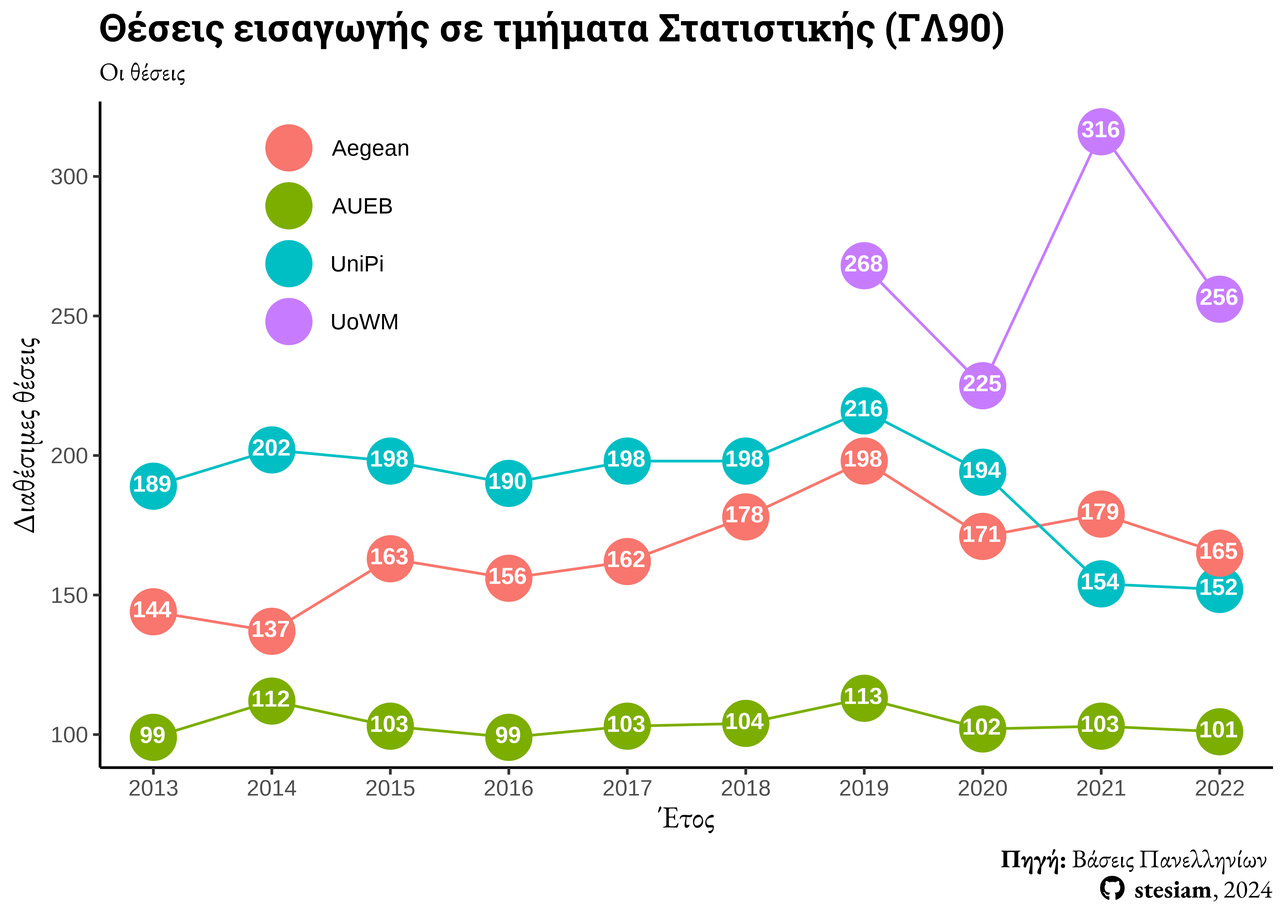
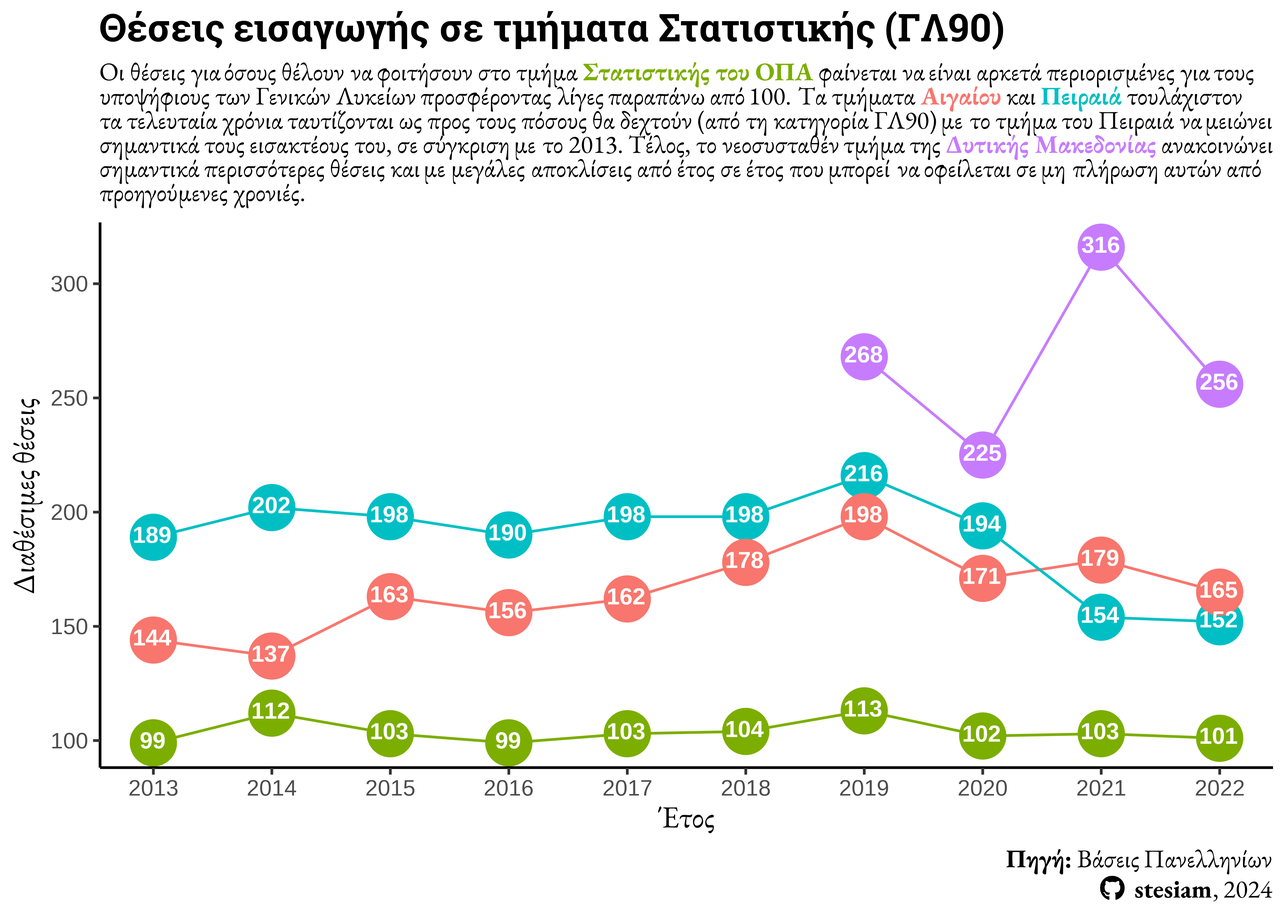
Edit article Statistics Studies in Greece and project announcement in gallery

diff --git a/docs/greek-posts/2023-06-20-Studies-in-Statistics-Greek/index.html b/docs/greek-posts/2023-06-20-Studies-in-Statistics-Greek/index.html
@@ -268,7 +268,7 @@ pre > code.sourceCode > span > a:first-child::before { text-decoration: underlin
 <div class="cell" height="5">
 <div class="sourceCode" id="cb2"><pre class="downlit sourceCode r code-with-copy"><code class="sourceCode R"><span><span class="va">title_text</span> <span class="op">=</span> <span class="fu"><a href="https://glue.tidyverse.org/reference/glue.html">glue</a></span><span class="op">(</span><span class="st">"&lt;b&gt;Βάσεις εισαγωγής σε τμήματα Στατιστικής&lt;/b&gt;"</span><span class="op">)</span></span>
 <span><span class="va">subtitle_text</span> <span class="op">=</span> <span class="fu"><a href="https://glue.tidyverse.org/reference/glue.html">glue</a></span><span class="op">(</span><span class="st">"Η βάση εισαγωγής είναι ο μικρότερος αριθμός μορίων - βαθμολογίας που πρέπει να συγκεντρώσει κάποιος &lt;br&gt; προκειμένου να εισαχθεί στη συγκεκριμένη σχολή. Διαχρονικά, οι σχολές με τη μεγαλύτερη βάση είναι του &lt;br&gt; &lt;b&gt;Οικονομικού Πανεπιστημίου Αθηνών&lt;/b&gt; και του &lt;b&gt;Πανεπιστημίου Πειραιά&lt;/b&gt;. Τέλος, παρατηρούμε ότι όλες &lt;br&gt; οι  σχολές Στατιστικής έχουν σχετικά χαμηλή βάση εισαγωγής."</span><span class="op">)</span></span>
-<span><span class="va">caption_text</span> <span class="op">=</span> <span class="fu"><a href="https://glue.tidyverse.org/reference/glue.html">glue</a></span><span class="op">(</span><span class="st">"&lt;b&gt; Πηγή:&lt;/b&gt; Οδηγοί σπουδών (2022) τμημάτων Στατιστικής &lt;br&gt;&lt;span style='font-family:fb;'  &gt;&amp;#xf09b;&lt;/span&gt; &lt;b&gt;stesiam&lt;/b&gt;, 2024"</span><span class="op">)</span></span>
+<span><span class="va">caption_text</span> <span class="op">=</span> <span class="fu"><a href="https://glue.tidyverse.org/reference/glue.html">glue</a></span><span class="op">(</span><span class="st">"&lt;b&gt;Πηγή:&lt;/b&gt;Βάσεις Πανελληνίων&lt;br&gt;&lt;span style='font-family:fb;'  &gt;&amp;#xf09b;&lt;/span&gt; &lt;b&gt;stesiam&lt;/b&gt;, 2024"</span><span class="op">)</span></span>
 <span></span>
 <span><span class="fu">ggplot2</span><span class="fu">::</span><span class="fu"><a href="https://ggplot2.tidyverse.org/reference/ggplot.html">ggplot</a></span><span class="op">(</span>data <span class="op">=</span> <span class="va">tmimata_statistikis</span>, <span class="fu"><a href="https://ggplot2.tidyverse.org/reference/aes.html">aes</a></span><span class="op">(</span>x <span class="op">=</span> <span class="va">Year</span>, y <span class="op">=</span> <span class="va">Vasi</span>, </span>
 <span>                                                color<span class="op">=</span> <span class="va">University</span>, </span>
@@ -277,7 +277,7 @@ pre > code.sourceCode > span > a:first-child::before { text-decoration: underlin
 <span>  <span class="fu"><a href="https://ggplot2.tidyverse.org/reference/geom_point.html">geom_point</a></span><span class="op">(</span>data <span class="op">=</span> <span class="va">tmimata_statistikis</span> <span class="op">|&gt;</span> <span class="fu">dplyr</span><span class="fu">::</span><span class="fu"><a href="https://dplyr.tidyverse.org/reference/filter.html">filter</a></span><span class="op">(</span><span class="va">Year</span> <span class="op">==</span> <span class="fl">2022</span><span class="op">)</span>,</span>
 <span>             size <span class="op">=</span> <span class="fl">9</span><span class="op">)</span> <span class="op">+</span></span>
 <span>  <span class="fu"><a href="https://allancameron.github.io/geomtextpath/reference/geom_textpath.html">geom_textline</a></span><span class="op">(</span>size <span class="op">=</span> <span class="fl">4.5</span>, vjust <span class="op">=</span> <span class="op">-</span><span class="fl">0.1</span>,</span>
-<span>                linewidth <span class="op">=</span> <span class="fl">1.5</span>, fontface <span class="op">=</span> <span class="st">"bold"</span><span class="op">)</span> <span class="op">+</span></span>
+<span>                linewidth <span class="op">=</span> <span class="fl">1.5</span>, fontface <span class="op">=</span> <span class="st">"bold"</span>, hjust <span class="op">=</span> <span class="fl">0.5</span><span class="op">)</span> <span class="op">+</span></span>
 <span>  <span class="fu"><a href="https://ggplot2.tidyverse.org/reference/geom_text.html">geom_text</a></span><span class="op">(</span>data <span class="op">=</span> <span class="va">tmimata_statistikis</span> <span class="op"><a href="https://magrittr.tidyverse.org/reference/pipe.html">%&gt;%</a></span> <span class="fu"><a href="https://dplyr.tidyverse.org/reference/group_by.html">group_by</a></span><span class="op">(</span><span class="va">University</span><span class="op">)</span> <span class="op"><a href="https://magrittr.tidyverse.org/reference/pipe.html">%&gt;%</a></span> <span class="fu"><a href="https://dplyr.tidyverse.org/reference/filter.html">filter</a></span><span class="op">(</span><span class="va">Year</span> <span class="op">==</span> <span class="fu"><a href="https://rdrr.io/r/base/Extremes.html">max</a></span><span class="op">(</span><span class="va">Year</span><span class="op">)</span><span class="op">)</span>, <span class="fu"><a href="https://ggplot2.tidyverse.org/reference/aes.html">aes</a></span><span class="op">(</span>x <span class="op">=</span> <span class="va">Year</span>, y <span class="op">=</span> <span class="va">Vasi</span>, label <span class="op">=</span> <span class="fu"><a href="https://rdrr.io/r/base/Round.html">round</a></span><span class="op">(</span><span class="va">Vasi</span><span class="op">/</span><span class="fl">1000</span>, digits <span class="op">=</span> <span class="fl">1</span><span class="op">)</span><span class="op">)</span>,</span>
 <span>                  fontface <span class="op">=</span> <span class="st">"bold"</span>, color <span class="op">=</span> <span class="st">"white"</span>, size <span class="op">=</span> <span class="fl">3.5</span><span class="op">)</span> <span class="op">+</span></span>
 <span>  <span class="fu"><a href="https://ggplot2.tidyverse.org/reference/scale_continuous.html">scale_x_continuous</a></span><span class="op">(</span><span class="st">"Έτος"</span>, breaks <span class="op">=</span> <span class="fl">2013</span><span class="op">:</span><span class="fl">2023</span><span class="op">)</span> <span class="op">+</span></span>
@@ -305,11 +305,12 @@ pre > code.sourceCode > span > a:first-child::before { text-decoration: underlin
 </div>
 </div>
 </section><section id="θέσεις" class="level2"><h2 class="anchored" data-anchor-id="θέσεις">Θέσεις</h2>
-<p>Κάθε χρόνο το Υπουργείο Παιδείας ανακοινώνει τις διαθέσιμες θέσεις για κάθε σχολή και για κάθε κατηγορία εξεταζόμενων. Σε αυτή την ανάλυση ασχολούμαι με τους υποψήφιους των Γενικών Λυκείων που αποτελούν και τη συντριπτική πλειοψηφία των συμμετεχόντων. Με μία πρώτη ματιά παρατηρώ μία αντιστροφή των αποτελεσμάτων σε σύγκριση με τη βάση εισαγωγής. Δηλαδή, στις σχολές με την σχετικά υψηλότερη βάση παρέχονται λιγότερες θέσεις.</p>
+<p>Κάθε χρόνο το Υπουργείο Παιδείας ανακοινώνει τις διαθέσιμες θέσεις για κάθε σχολή και για κάθε κατηγορία εξεταζόμενων. Σε αυτή την ανάλυση ασχολούμαι με τους υποψήφιους των Γενικών Λυκείων που αποτελούν και τη συντριπτική πλειοψηφία των συμμετεχόντων. Με μία πρώτη ματιά παρατηρώ μία αντιστροφή των αποτελεσμάτων σε σύγκριση με τη βάση εισαγωγής. Δηλαδή, στις σχολές με την σχετικά υψηλότερη βάση παρέχονται λιγότερες θέσεις, ενώ οι περισσότερες θέσεις διατίθενται στις σχολές χαμηλότερης βάσης.</p>
 <div class="cell" height="5">
 <div class="sourceCode" id="cb3"><pre class="downlit sourceCode r code-with-copy"><code class="sourceCode R"><span><span class="va">title_text</span> <span class="op">=</span> <span class="fu"><a href="https://glue.tidyverse.org/reference/glue.html">glue</a></span><span class="op">(</span><span class="st">"&lt;b&gt;Θέσεις εισαγωγής σε τμήματα Στατιστικής (ΓΛ90)&lt;/b&gt;"</span><span class="op">)</span></span>
-<span><span class="va">subtitle_text</span> <span class="op">=</span> <span class="fu"><a href="https://glue.tidyverse.org/reference/glue.html">glue</a></span><span class="op">(</span><span class="st">"Oι θέσεις "</span><span class="op">)</span></span>
-<span><span class="va">caption_text</span> <span class="op">=</span> <span class="fu"><a href="https://glue.tidyverse.org/reference/glue.html">glue</a></span><span class="op">(</span><span class="st">"&lt;b&gt; Πηγή:&lt;/b&gt; Βάσεις Πανελληνίων &lt;br&gt;&lt;span style='font-family:fb;'  &gt;&amp;#xf09b;&lt;/span&gt; &lt;b&gt;stesiam&lt;/b&gt;, 2024"</span><span class="op">)</span></span>
+<span><span class="va">subtitle_text</span> <span class="op">=</span> <span class="fu"><a href="https://glue.tidyverse.org/reference/glue.html">glue</a></span><span class="op">(</span><span class="st">"Oι θέσεις για όσους θέλουν να φοιτήσουν στο τμήμα **&lt;span style='color:#7cae00;'&gt;Στατιστικής του ΟΠΑ&lt;/span&gt;** φαίνεται να είναι αρκετά περιορισμένες για τους &lt;br&gt; υποψήφιους των Γενικών Λυκείων προσφέροντας λίγες παραπάνω από 100. Τα τμήματα **&lt;span style='color:#f8766d;'&gt;Αιγαίου&lt;/span&gt;** και **&lt;span style='color:#00bfc4;'&gt;Πειραιά&lt;/span&gt;** τουλάχιστον &lt;br&gt; τα τελευταία χρόνια ταυτίζονται ως προς τους πόσους θα δεχτούν (από τη κατηγορία ΓΛ90) με το τμήμα του Πειραιά να μειώνει &lt;br&gt; σημαντικά τους εισακτέους του, σε σύγκριση με το 2013. Τέλος, το νεοσυσταθέν τμήμα της **&lt;span style='color:#c77cff;'&gt;Δυτικής Μακεδονίας&lt;/span&gt;** ανακοινώνει &lt;br&gt;σημαντικά περισσότερες θέσεις και με μεγάλες αποκλίσεις από έτος σε έτος που μπορεί να οφείλεται σε μη πλήρωση αυτών από&lt;br&gt; προηγούμενες χρονιές."</span><span class="op">)</span></span>
+<span></span>
+<span><span class="va">caption_text</span> <span class="op">=</span> <span class="fu"><a href="https://glue.tidyverse.org/reference/glue.html">glue</a></span><span class="op">(</span><span class="st">"&lt;b&gt; Πηγή:&lt;/b&gt; Βάσεις Πανελληνίων&lt;br&gt;&lt;span style='font-family:fb;'  &gt;&amp;#xf09b;&lt;/span&gt; &lt;b&gt;stesiam&lt;/b&gt;, 2024"</span><span class="op">)</span></span>
 <span></span>
 <span><span class="fu">ggplot2</span><span class="fu">::</span><span class="fu"><a href="https://ggplot2.tidyverse.org/reference/ggplot.html">ggplot</a></span><span class="op">(</span>data <span class="op">=</span> <span class="va">tmimata_statistikis</span>, <span class="fu"><a href="https://ggplot2.tidyverse.org/reference/aes.html">aes</a></span><span class="op">(</span>x <span class="op">=</span> <span class="va">Year</span>, y <span class="op">=</span> <span class="va">Theseis</span>, color<span class="op">=</span> <span class="va">University</span><span class="op">)</span><span class="op">)</span> <span class="op">+</span></span>
 <span>  <span class="fu"><a href="https://ggplot2.tidyverse.org/reference/geom_path.html">geom_line</a></span><span class="op">(</span><span class="op">)</span> <span class="op">+</span></span>
@@ -332,8 +333,7 @@ pre > code.sourceCode > span > a:first-child::before { text-decoration: underlin
 <span>     plot.subtitle <span class="op">=</span> <span class="fu"><a href="https://wilkelab.org/ggtext/reference/element_markdown.html">element_markdown</a></span><span class="op">(</span>family <span class="op">=</span> <span class="st">"mont"</span>, size <span class="op">=</span> <span class="fl">10</span>, lineheight <span class="op">=</span> <span class="fl">0.7</span><span class="op">)</span>,</span>
 <span>     plot.caption <span class="op">=</span> <span class="fu"><a href="https://wilkelab.org/ggtext/reference/element_markdown.html">element_markdown</a></span><span class="op">(</span>family <span class="op">=</span> <span class="st">"mont"</span>, size <span class="op">=</span> <span class="fl">10</span>, lineheight <span class="op">=</span> <span class="fl">1.2</span><span class="op">)</span>,</span>
 <span>     axis.title <span class="op">=</span> <span class="fu"><a href="https://wilkelab.org/ggtext/reference/element_markdown.html">element_markdown</a></span><span class="op">(</span>family <span class="op">=</span> <span class="st">"mont"</span>, size <span class="op">=</span> <span class="fl">12</span><span class="op">)</span>,</span>
-<span>     legend.position <span class="op">=</span> <span class="fu"><a href="https://rdrr.io/r/base/c.html">c</a></span><span class="op">(</span><span class="fl">0.2</span>, <span class="fl">0.8</span><span class="op">)</span>,legend.title <span class="op">=</span> <span class="fu"><a href="https://ggplot2.tidyverse.org/reference/element.html">element_blank</a></span><span class="op">(</span><span class="op">)</span>,</span>
-<span>     legend.key.size <span class="op">=</span> <span class="fu"><a href="https://rdrr.io/r/grid/unit.html">unit</a></span><span class="op">(</span><span class="fl">0.5</span>, <span class="st">'cm'</span><span class="op">)</span></span>
+<span>     legend.position <span class="op">=</span> <span class="st">"none"</span></span>
 <span><span class="op">)</span></span></code><button title="Αντιγραφή στο πρόχειρο" class="code-copy-button"><i class="bi"></i></button></pre></div>
 <div class="cell-output-display">
 <div class="quarto-figure quarto-figure-center">
@@ -462,8 +462,8 @@ pre > code.sourceCode > span > a:first-child::before { text-decoration: underlin
 <span>    Vathmos <span class="op">=</span>  <span class="fu"><a href="https://glin.github.io/reactable/reference/colDef.html">colDef</a></span><span class="op">(</span>name <span class="op">=</span> <span class="st">"Υπολογισμός βαθμού"</span><span class="op">)</span></span>
 <span>  <span class="op">)</span><span class="op">)</span></span></code><button title="Αντιγραφή στο πρόχειρο" class="code-copy-button"><i class="bi"></i></button></pre></div>
 <div class="cell-output-display">
-<div class="reactable html-widget html-fill-item" id="htmlwidget-7d98fe6e1a90f90526a9" style="width:auto;height:auto;"></div>
-<script type="application/json" data-for="htmlwidget-7d98fe6e1a90f90526a9">{"x":{"tag":{"name":"Reactable","attribs":{"data":{"Uni":["AUEB","UniPi2011","UniPi2017","Aegean","UoWM"],"Diloseis":["Ναι","Όχι","Όχι","Όχι","Όχι"],"Alysides":["Ναι","Όχι","Όχι","Όχι","Όχι"],"Ptyxiaki":["Προαιρετική","Όχι","Όχι","Προαιρετική","Όχι"],"Vathmos":["Αριθμητικός μέσος","Σταθμικός μέσος","Αριθμητικός μέσος","Σταθμικός μέσος","Αριθμητικός μέσος"]},"columns":[{"id":"Uni","name":"Πανεπιστήμιο","type":"character"},{"id":"Diloseis","name":"Όριο δηλώσεων","type":"character","style":[{"color":"#e00000","fontWeight":"bold"},{"color":"#008000","fontWeight":"bold"},{"color":"#008000","fontWeight":"bold"},{"color":"#008000","fontWeight":"bold"},{"color":"#008000","fontWeight":"bold"}]},{"id":"Alysides","name":"Αλυσίδες μαθημάτων","type":"character","style":[{"color":"#e00000","fontWeight":"bold"},{"color":"#008000","fontWeight":"bold"},{"color":"#008000","fontWeight":"bold"},{"color":"#008000","fontWeight":"bold"},{"color":"#008000","fontWeight":"bold"}]},{"id":"Ptyxiaki","name":"Πτυχιακή","type":"character","style":[{"color":"#e8c010","fontWeight":"bold"},{"color":"#008000","fontWeight":"bold"},{"color":"#008000","fontWeight":"bold"},{"color":"#e8c010","fontWeight":"bold"},{"color":"#008000","fontWeight":"bold"}]},{"id":"Vathmos","name":"Υπολογισμός βαθμού","type":"character"}],"dataKey":"237341ab6f93ec5492bc75f7256bcdb0"},"children":[]},"class":"reactR_markup"},"evals":[],"jsHooks":[]}</script>
+<div class="reactable html-widget html-fill-item" id="htmlwidget-145fec8935a8bac4ed47" style="width:auto;height:auto;"></div>
+<script type="application/json" data-for="htmlwidget-145fec8935a8bac4ed47">{"x":{"tag":{"name":"Reactable","attribs":{"data":{"Uni":["AUEB","UniPi2011","UniPi2017","Aegean","UoWM"],"Diloseis":["Ναι","Όχι","Όχι","Όχι","Όχι"],"Alysides":["Ναι","Όχι","Όχι","Όχι","Όχι"],"Ptyxiaki":["Προαιρετική","Όχι","Όχι","Προαιρετική","Όχι"],"Vathmos":["Αριθμητικός μέσος","Σταθμικός μέσος","Αριθμητικός μέσος","Σταθμικός μέσος","Αριθμητικός μέσος"]},"columns":[{"id":"Uni","name":"Πανεπιστήμιο","type":"character"},{"id":"Diloseis","name":"Όριο δηλώσεων","type":"character","style":[{"color":"#e00000","fontWeight":"bold"},{"color":"#008000","fontWeight":"bold"},{"color":"#008000","fontWeight":"bold"},{"color":"#008000","fontWeight":"bold"},{"color":"#008000","fontWeight":"bold"}]},{"id":"Alysides","name":"Αλυσίδες μαθημάτων","type":"character","style":[{"color":"#e00000","fontWeight":"bold"},{"color":"#008000","fontWeight":"bold"},{"color":"#008000","fontWeight":"bold"},{"color":"#008000","fontWeight":"bold"},{"color":"#008000","fontWeight":"bold"}]},{"id":"Ptyxiaki","name":"Πτυχιακή","type":"character","style":[{"color":"#e8c010","fontWeight":"bold"},{"color":"#008000","fontWeight":"bold"},{"color":"#008000","fontWeight":"bold"},{"color":"#e8c010","fontWeight":"bold"},{"color":"#008000","fontWeight":"bold"}]},{"id":"Vathmos","name":"Υπολογισμός βαθμού","type":"character"}],"dataKey":"237341ab6f93ec5492bc75f7256bcdb0"},"children":[]},"class":"reactR_markup"},"evals":[],"jsHooks":[]}</script>
 </div>
 </div>
 </section><section id="χάρτης" class="level2"><h2 class="anchored" data-anchor-id="χάρτης">Χάρτης</h2>
@@ -512,7 +512,7 @@ pre > code.sourceCode > span > a:first-child::before { text-decoration: underlin
 </div>
 </div>
 </section><section id="επίλογος" class="level2"><h2 class="anchored" data-anchor-id="επίλογος">Επίλογος</h2>
-<p>Η προσωπική μου άποψη είναι ότι το τμήμα Στατιστικής του Αιγαίου είναι μία πολύ δελεαστική επιλογή. Παρουσιάζεται (το τονίζω αυτό, παρουσιάζεται) ως ένα σοβαρό τμήμα με έναν σύγχρονο οδηγό σπουδών (λίγα μαθήματα που αντισταθμίζεται με τον ανάλογο φόρτο εργασίας). Το συγκεκριμένο τμήμα κατά τη γνώμη μου αδικείται από τη βάση που έχει. Αν είχα την επιλογή να διαλέξω δίχως να λάβω υπόψιν το οικονομικό κριτήριο (κόστος ενοικίου κτλ.) θα ήταν η πρώτη μου επιλογή. Βέβαια, αυτή η επιλογή όπως έγραψα και στην αρχή βασίζεται αποκλειστικά σε πράγματα που θα έβρισκα στο διαδίκτυο και απλά τα μάζεψα σε ένα άρθρο. Υπάρχουν και άλλα πράγματα που έχουν σημαντικότατο ρόλο, όπως οι διδάσκοντες, το επίπεδο μαθήματος, τήρηση κανονισμών, εγκαταστάσεις, προσβασιμότητα και άλλα που δυστυχώς θα τα μάθετε κατόπιν εορτής.</p>
+<p>Η προσωπική μου άποψη είναι ότι το τμήμα Στατιστικής του Αιγαίου είναι μία πολύ δελεαστική επιλογή. Παρουσιάζεται (το τονίζω αυτό, παρουσιάζεται) ως ένα σοβαρό τμήμα με έναν σύγχρονο οδηγό σπουδών (λίγα μαθήματα που αντισταθμίζεται με τον ανάλογο φόρτο εργασίας). Το συγκεκριμένο τμήμα κατά τη γνώμη μου αδικείται από τη βάση που έχει. Αν είχα την επιλογή να διαλέξω δίχως να λάβω υπόψιν το οικονομικό κριτήριο (κόστος ενοικίου κτλ.) θα ήταν η πρώτη μου επιλογή. Βέβαια, αυτή η επιλογή όπως έγραψα και στην αρχή βασίζεται αποκλειστικά σε πράγματα που θα έβρισκα στο διαδίκτυο και απλά τα μάζεψα σε ένα άρθρο. Υπάρχουν και άλλα πράγματα που έχουν σημαντικότατο ρόλο, όπως οι διδάσκοντες, το επίπεδο μαθήματος, τήρηση κανονισμών, εγκαταστάσεις, προσβασιμότητα και άλλα που δυστυχώς θα τα μάθετε, όταν θα είναι πολύ αργά.</p>
 
 
 </section><div id="quarto-appendix" class="default"><section class="quarto-appendix-contents" id="quarto-citation"><h2 class="anchored quarto-appendix-heading">Αναφορά</h2><div><div class="quarto-appendix-secondary-label">BibTeX citation:</div><pre class="sourceCode code-with-copy quarto-appendix-bibtex"><code class="sourceCode bibtex">@online{2023,

diff --git a/docs/gallery/index.html b/docs/gallery/index.html
@@ -174,7 +174,8 @@ ul.task-list li input[type="checkbox"] {
     <h2 id="toc-title">On this page</h2>
    
   <ul>
-  <li><a href="#day-chart-challenge" id="toc-day-chart-challenge" class="nav-link active" data-scroll-target="#day-chart-challenge">30 Day Chart Challenge</a></li>
+  <li><a href="#days-challenge" id="toc-days-challenge" class="nav-link active" data-scroll-target="#days-challenge">7 Days ??? Challenge</a></li>
+  <li><a href="#day-chart-challenge" id="toc-day-chart-challenge" class="nav-link" data-scroll-target="#day-chart-challenge">30 Day Chart Challenge</a></li>
   <li><a href="#tidy-tuesday" id="toc-tidy-tuesday" class="nav-link" data-scroll-target="#tidy-tuesday">Tidy Tuesday</a></li>
   <li><a href="#day-map-challenge" id="toc-day-map-challenge" class="nav-link" data-scroll-target="#day-map-challenge">30 Day Map Challenge</a></li>
   <li><a href="#greece-in-figures" id="toc-greece-in-figures" class="nav-link" data-scroll-target="#greece-in-figures">Greece in Figures</a></li>
@@ -190,6 +191,22 @@ ul.task-list li input[type="checkbox"] {
 
 
 
+<section id="days-challenge" class="level2">
+<h2 class="anchored" data-anchor-id="days-challenge">7 Days ??? Challenge</h2>
+<div class="callout callout-style-default callout-tip callout-titled" title="🎉 A new project ✨">
+<div class="callout-header d-flex align-content-center">
+<div class="callout-icon-container">
+<i class="callout-icon"></i>
+</div>
+<div class="callout-title-container flex-fill">
+🎉 A new project ✨
+</div>
+</div>
+<div class="callout-body-container callout-body">
+<p>Expected to be launched on 13th of October, 2024. The only clue I can give is that the date is not randomly selected. It will follow the logic of other popular #dataviz challenges but for a specific subject.</p>
+</div>
+</div>
+</section>
 <section id="day-chart-challenge" class="level2">
 <h2 class="anchored" data-anchor-id="day-chart-challenge">30 Day Chart Challenge</h2>
 <div class="grid">
@@ -1127,7 +1144,7 @@ window.document.addEventListener("DOMContentLoaded", function (event) {
 </div>
   </div>
 </footer>
-<script>var lightboxQuarto = GLightbox({"loop":false,"closeEffect":"zoom","selector":".lightbox","descPosition":"bottom","openEffect":"zoom"});
+<script>var lightboxQuarto = GLightbox({"loop":false,"descPosition":"bottom","openEffect":"zoom","closeEffect":"zoom","selector":".lightbox"});
 (function() {
   let previousOnload = window.onload;
   window.onload = () => {
